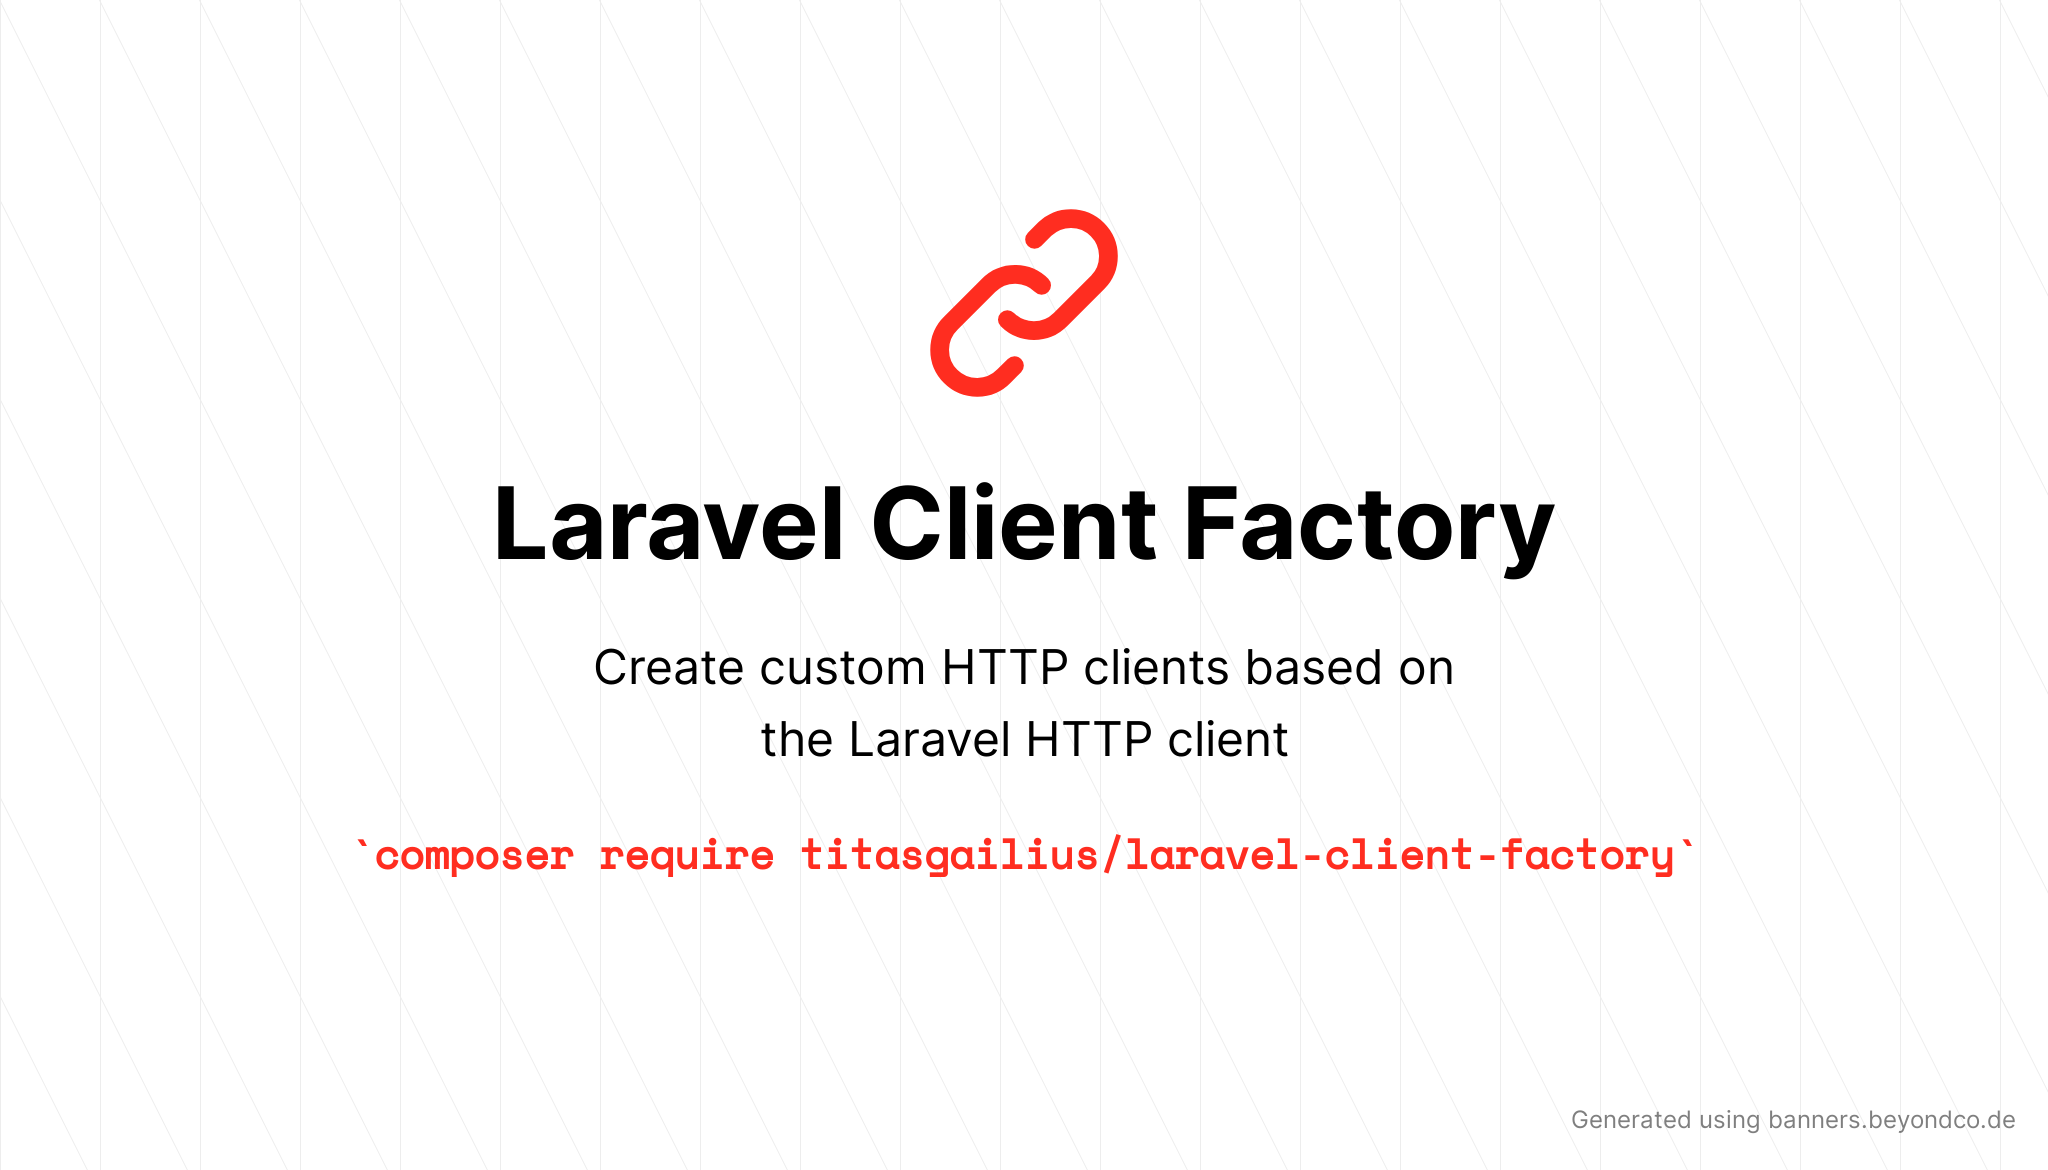
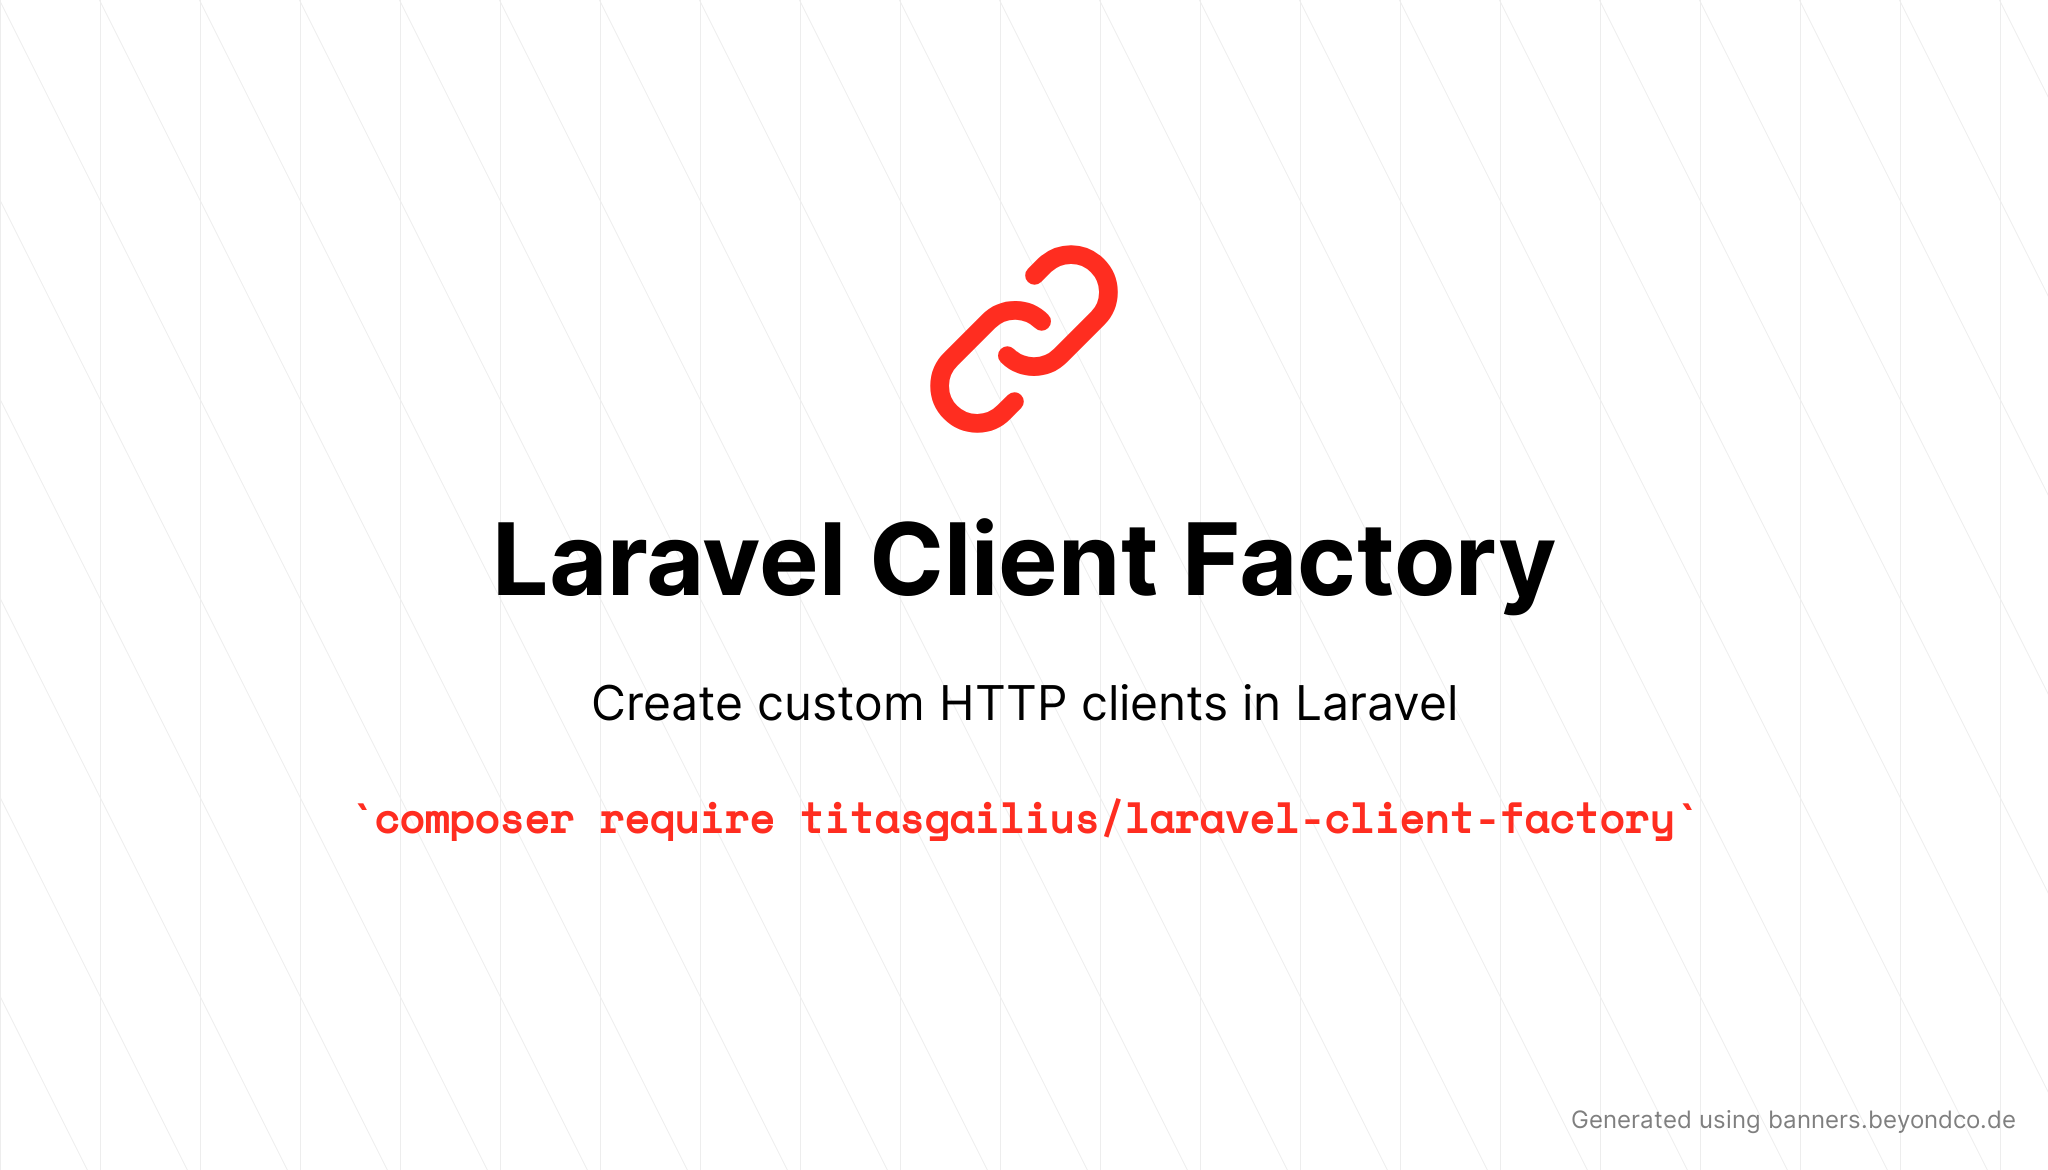
New description

diff --git a/README.md b/README.md
@@ -2,7 +2,7 @@
 
 # Laravel Client Factory
 
-This package allows you to create custom http clients based on the Laravel HTTP client.
+This package allows you to create custom HTTP clients in Laravel.
 
 ## Installation
 
